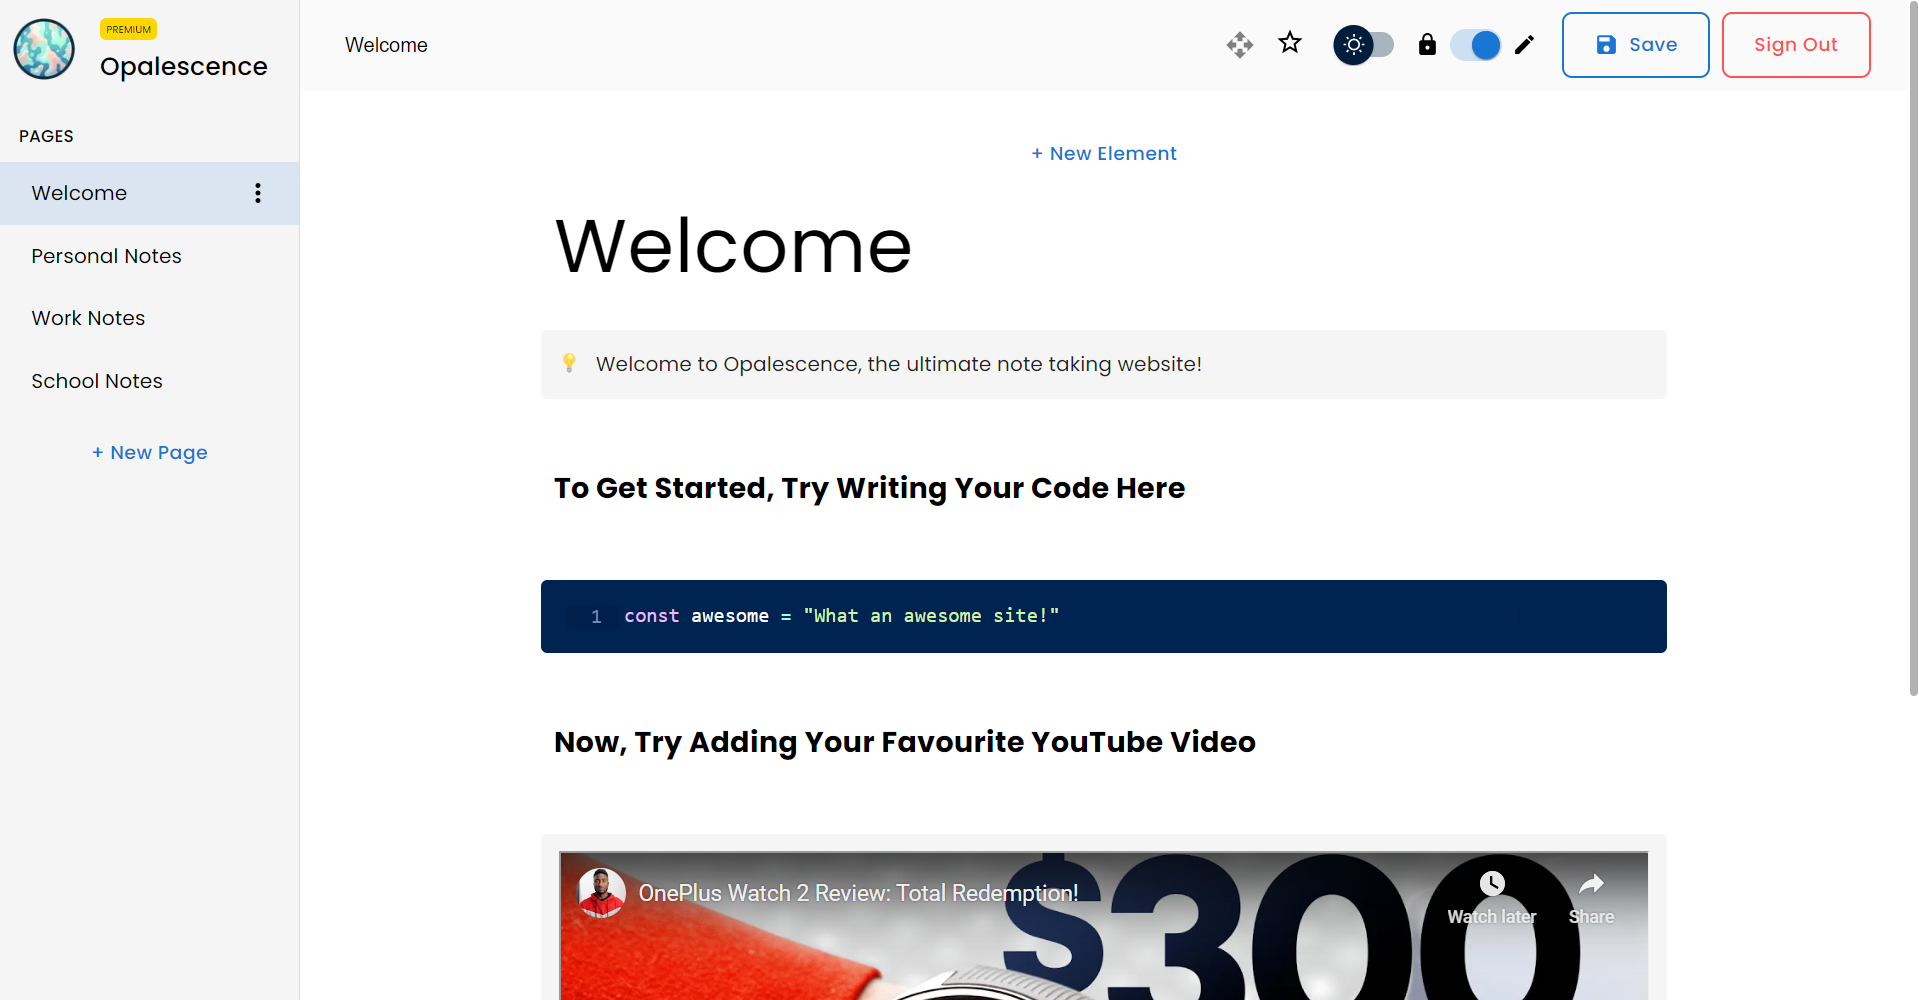
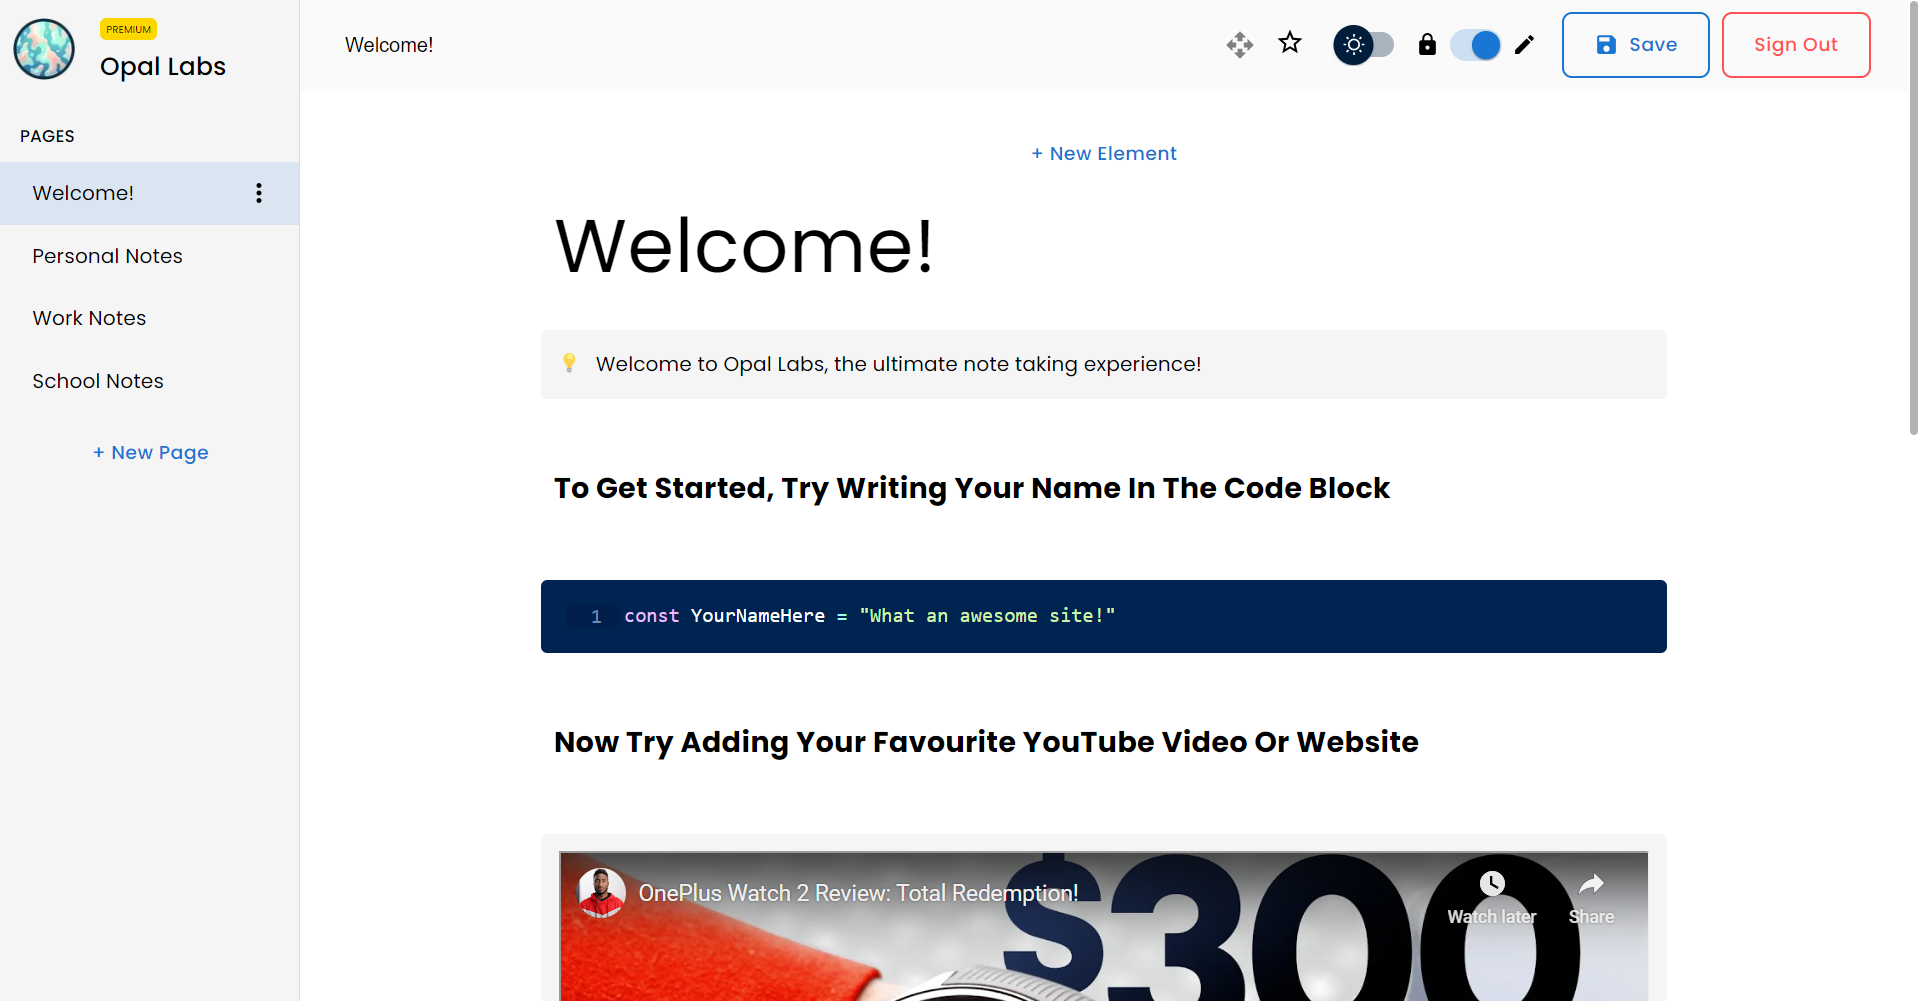
Update Site Name

diff --git a/pages/index.tsx b/pages/index.tsx
@@ -140,12 +140,12 @@ const HomePage = () => {
           <div style={{ display: 'flex', justifyContent: 'space-between', gap: '40px', marginTop: '40px', textAlign: 'left' }}>
             <div className="hover-on-div" style={{ backgroundColor: '#222222', padding: '20px 30px', borderRadius: '20px', border: '2px solid #424242' }}>
               <h3>Customer 1</h3>
-              <p style={{ color: '#A3A3A3' }}>“An incredible app. The distinction between Opalescence and its competitors is beyond words.”</p>
+              <p style={{ color: '#A3A3A3' }}>“An incredible app. The distinction between Opal Labs and its competitors is beyond words.”</p>
             </div>
 
             <div className="hover-on-div" style={{ backgroundColor: '#222222', padding: '20px 30px', borderRadius: '20px', border: '2px solid #424242', textAlign: 'left' }}>
               <h3>Customer 2</h3>
-              <p style={{ color: '#A3A3A3' }}>“Discovering Opalescence has been a game-changer for my productivity, with its intuitive interface and seamless functionality.”</p>
+              <p style={{ color: '#A3A3A3' }}>“Discovering Opal Labs has been a game-changer for my productivity, with its intuitive interface and seamless functionality.”</p>
             </div>
 
             <div className="hover-on-div" style={{ backgroundColor: '#222222', padding: '20px 30px', borderRadius: '20px', border: '2px solid #424242', textAlign: 'left' }}>

diff --git a/hooks/Page/usePageList.ts b/hooks/Page/usePageList.ts
@@ -24,7 +24,7 @@ export const usePageList = (): [PageType[], React.Dispatch<React.SetStateAction<
     const fetchPageList = async () => {
       try {
         // Make a GET request to the server to fetch the list of pages
-        const response = await fetch(`${process.env.NEXT_PUBLIC_OPALESCENCE_BASE_URL}/page-list`, {
+        const response = await fetch(`${process.env.NEXT_PUBLIC_BACKEND_URL}/page-list`, {
           method: 'GET',
           credentials: 'include',
         })
@@ -59,14 +59,11 @@ export const usePageList = (): [PageType[], React.Dispatch<React.SetStateAction<
 
           try {
             // Make a POST request to the server to create a new page
-            const response = await fetch(
-              `${process.env.NEXT_PUBLIC_OPALESCENCE_BASE_URL}/page-create`,
-              {
-                method: 'POST',
-                body: JSON.stringify(EmptyPage),
-                credentials: 'include',
-              }
-            )
+            const response = await fetch(`${process.env.NEXT_PUBLIC_BACKEND_URL}/page-create`, {
+              method: 'POST',
+              body: JSON.stringify(EmptyPage),
+              credentials: 'include',
+            })
 
             if (!response.ok) {
               throw new Error('Page creation failed')

diff --git a/pages/_document.tsx b/pages/_document.tsx
@@ -19,20 +19,20 @@ export default function Document() {
 
         <meta
           name="description"
-          content="Opalescence is the all in one dashboard for productivity, management, and organization."
+          content="Opal Labs is the all in one dashboard for productivity, management, and organization."
         />
         <meta
           name="keywords"
-          content="Opalescence, Opalescence Dashboard, Productivity, Organization"
+          content="Opal Labs, Opal Labs Dashboard, Productivity, Organization"
         />
 
         {/* <meta name="theme-color" content="TODO" /> */}
 
         <meta property="og:type" content="website" />
-        <meta property="og:title" content="Opalescence" />
+        <meta property="og:title" content="Opal Labs" />
         <meta
           property="og:description"
-          content="Opalescence is the all in one dashboard for productivity, management, and organization."
+          content="Opal Labs is the all in one dashboard for productivity, management, and organization."
         />
 
         {/*

diff --git a/hooks/Page/usePageUpdate.ts b/hooks/Page/usePageUpdate.ts
@@ -71,17 +71,14 @@ export const usePageUpdate = () => {
         console.log('Updating Backend Data:', backendData)
 
         // Making a POST request to the server to update the page
-        const response = await fetch(
-          `${process.env.NEXT_PUBLIC_OPALESCENCE_BASE_URL}/page-update`,
-          {
-            method: 'POST',
-            credentials: 'include',
-            headers: {
-              'Content-Type': 'application/json',
-            },
-            body: JSON.stringify(backendData),
-          }
-        )
+        const response = await fetch(`${process.env.NEXT_PUBLIC_BACKEND_URL}/page-update`, {
+          method: 'POST',
+          credentials: 'include',
+          headers: {
+            'Content-Type': 'application/json',
+          },
+          body: JSON.stringify(backendData),
+        })
 
         if (!response.ok) {
           throw new Error('Failed to update page')

diff --git a/hooks/Page/usePageCreate.ts b/hooks/Page/usePageCreate.ts
@@ -39,14 +39,11 @@ export const usePageCreate = (
 
       try {
         // Making a POST request to the server to create the new page
-        const response = await fetch(
-          `${process.env.NEXT_PUBLIC_OPALESCENCE_BASE_URL}/page-create`,
-          {
-            method: 'POST',
-            body: JSON.stringify(newPage),
-            credentials: 'include',
-          }
-        )
+        const response = await fetch(`${process.env.NEXT_PUBLIC_BACKEND_URL}/page-create`, {
+          method: 'POST',
+          body: JSON.stringify(newPage),
+          credentials: 'include',
+        })
 
         if (!response.ok) {
           throw new Error('Page creation failed')

diff --git a/hooks/User/useUserGet.ts b/hooks/User/useUserGet.ts
@@ -10,12 +10,9 @@ export const useUserGet = (sessionToken: string | undefined) => {
     // Asynchronous function to fetch user data
     const fetchUserData = async () => {
       try {
-        const response = await axios.get(
-          `${process.env.NEXT_PUBLIC_OPALESCENCE_BASE_URL}/user-get`,
-          {
-            withCredentials: true,
-          }
-        )
+        const response = await axios.get(`${process.env.NEXT_PUBLIC_BACKEND_URL}/user-get`, {
+          withCredentials: true,
+        })
         console.log('Fetched User Data:', response.data)
 
         // Update the state with the fetched user data

diff --git a/pages/api/auth/[...nextauth].ts b/pages/api/auth/[...nextauth].ts
@@ -38,7 +38,7 @@ export default NextAuth({
         token.provider = account.provider
         if (typeof account.access_token === 'string' && account.expires_at) {
           const response = await axios.post(
-            `${process.env.NEXT_PUBLIC_OPALESCENCE_BASE_URL}/user-login`,
+            `${process.env.NEXT_PUBLIC_BACKEND_URL}/user-login`,
             {
               access_token: account.access_token,
               expires_in: account.expires_at - Math.floor(Date.now() / 1000),

diff --git a/hooks/Page/usePageDelete.ts b/hooks/Page/usePageDelete.ts
@@ -10,7 +10,7 @@ export const usePageDelete = () => {
   const deletePage = useCallback(async (page_uuid: string) => {
     try {
       // Making a POST request to the server to delete the page
-      const response = await fetch(`${process.env.NEXT_PUBLIC_OPALESCENCE_BASE_URL}/page-delete`, {
+      const response = await fetch(`${process.env.NEXT_PUBLIC_BACKEND_URL}/page-delete`, {
         method: 'POST',
         body: JSON.stringify({ page_uuid }),
         credentials: 'include',

diff --git a/hooks/Page/usePageGet.ts b/hooks/Page/usePageGet.ts
@@ -25,7 +25,7 @@ export const usePageGet = (pageUuid: string, setIsLoading?: (isLoading: boolean)
         if (setIsLoading) setIsLoading(true)
         // Making a GET request to the server to fetch the page
         const response = await fetch(
-          `${process.env.NEXT_PUBLIC_OPALESCENCE_BASE_URL}/page-get/${pageUuid}`,
+          `${process.env.NEXT_PUBLIC_BACKEND_URL}/page-get/${pageUuid}`,
           {
             method: 'GET',
             credentials: 'include',

diff --git a/pages/live/[uuid].tsx b/pages/live/[uuid].tsx
@@ -79,7 +79,7 @@ const LivePage = () => {
                 <div style={{ display: 'flex', alignItems: 'center' }}>
                   <Image src={logo} alt={'Site Opal Logo'} width={50} height={50} />
                   <Typography variant="h4" sx={{ marginLeft: '20px', lineHeight: '40px', letterSpacing: '0.25px', fontSize: '34px', fontWeight: 400 }}>
-                    Opalescence
+                    Opal Labs
                   </Typography>
                 </div>
 

diff --git a/components/Sidebar/index.tsx b/components/Sidebar/index.tsx
@@ -99,7 +99,7 @@ const Sidebar = (props: Props) => {
   const session = useSession()
 
   // Use user's name and profile picture if they exist, otherwise use default values
-  const userName = session.data?.user?.name || 'Opalescence'
+  const userName = session.data?.user?.name || 'Opal Labs'
   const userImage = session.data?.user?.image || '/images/opal.png'
 
   // Set image border radius and name text size based on whether user's image and name exist

diff --git a/hooks/User/useUserLogout.ts b/hooks/User/useUserLogout.ts
@@ -10,7 +10,7 @@ export const useUserLogout = () => {
   const logoutUser = useCallback(async () => {
     try {
       // Making a POST request to the server to log out the user
-      const response = await fetch(`${process.env.NEXT_PUBLIC_OPALESCENCE_BASE_URL}/user-logout`, {
+      const response = await fetch(`${process.env.NEXT_PUBLIC_BACKEND_URL}/user-logout`, {
         method: 'POST',
         credentials: 'include',
       })
